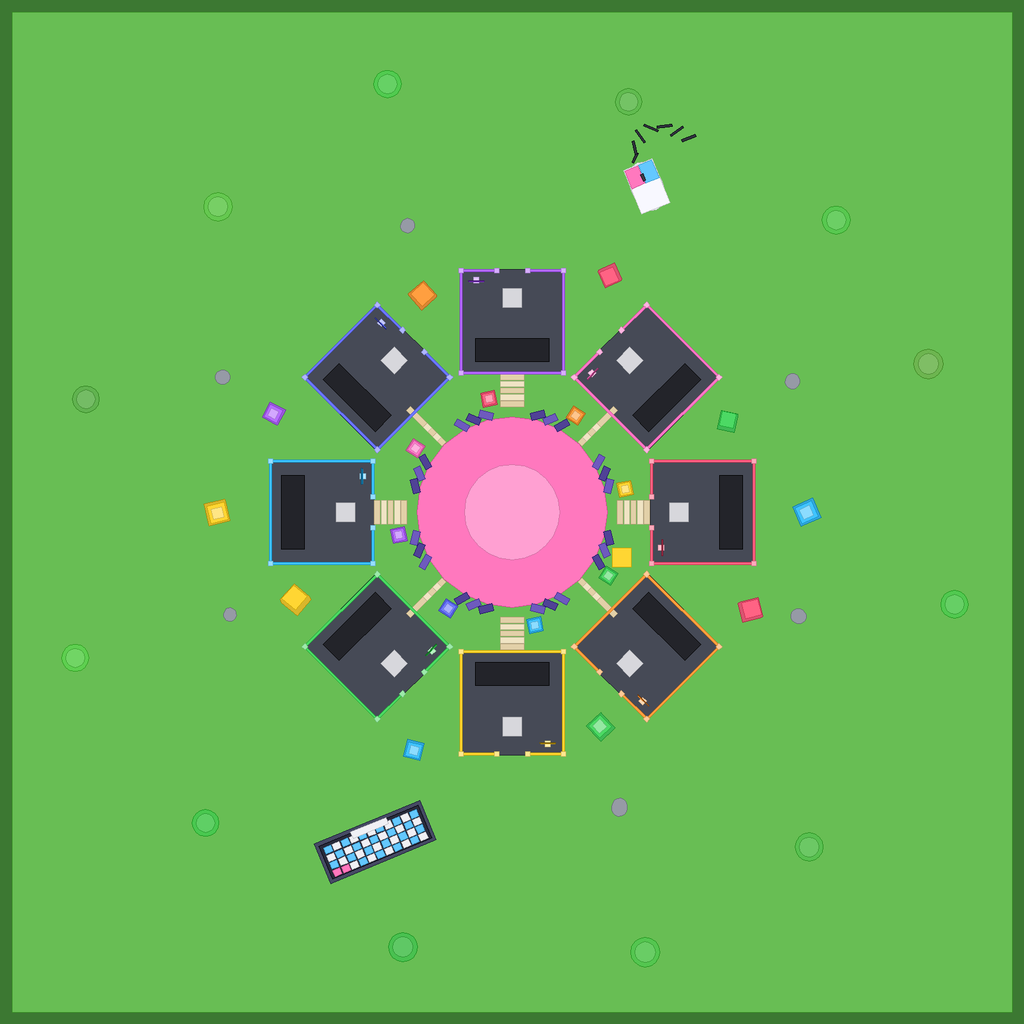
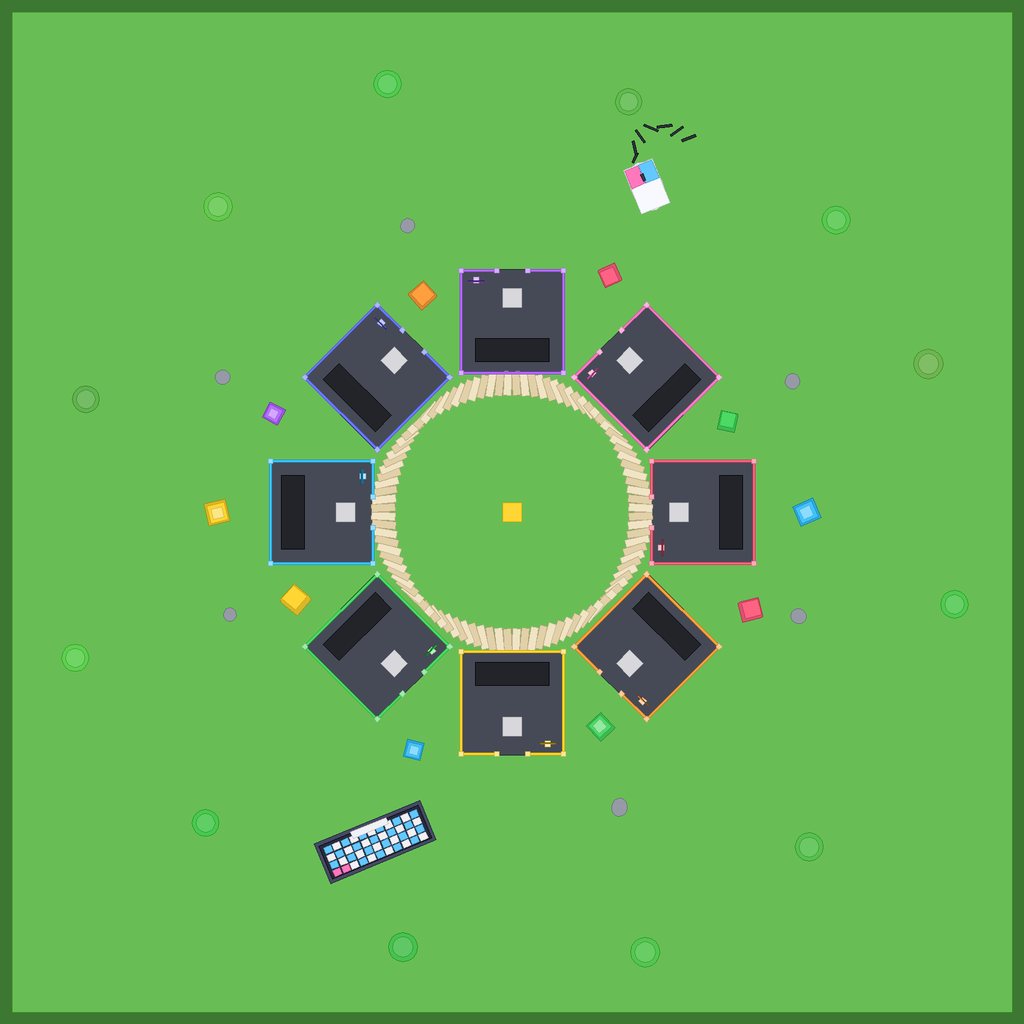
Remove arena from starter map, add ring path between bases, center spawn
Claude-Session: https://claude.ai/code/session_012yg9Kt5wrtAVTPP3PQ736Y

Changed region(s): [[0.3438, 0.3438, 0.6562, 0.6562]]

diff --git a/assets/map/README.md b/assets/map/README.md
@@ -1,18 +1,18 @@
 # THOCK starter map
 
-`ThockMap.rbxm` is a ready-made map: grass `Ground`, 8 `Plots`, the `Arena`, `Paths`, `Decor` and a `SpawnLocation`. The game code builds placeholder plots and arena at runtime only when these are missing.
+`ThockMap.rbxm` is a ready-made map: grass `Ground`, 8 `Plots`, a ring walkway in `Paths`, `Decor` and a centered `SpawnLocation`. There is no arena: the middle of the map is empty grass and players only walk base to base to steal. Keyfall Run is off via `GameConfig.Keyfall.Enabled = false`. The game code builds placeholder plots at runtime only when these are missing.
 
 ## Insert it
 
 1. Open the place in Studio.
 2. Right-click `Workspace` > Insert from File... > pick `assets/map/ThockMap.rbxm` (or drag the file into the viewport).
-3. The file has several roots, so `Plots`, `Arena`, `Paths`, `Decor`, `SpawnLocation` and `Ground` land directly in `Workspace`.
+3. The file has several roots, so `Plots`, `Paths`, `Decor`, `SpawnLocation` and `Ground` land directly in `Workspace`.
 4. Delete the old `Baseplate`, then save to Roblox (File > Publish to Roblox).
 
 ## Rules
 
-- Do not rename `Workspace.Plots`, `Workspace.Arena`, `Arena.Floor`, `Plot1`..`Plot8`, or the `Base`, `RollKey` and `Board` parts in each plot. The server finds them by name.
-- Everything else can be moved, recolored or decorated freely. Keep the plot positions and the arena size if you want gameplay distances (delivery radius, arena radius 40) to stay tuned.
+- Do not rename `Workspace.Plots`, `Plot1`..`Plot8`, or the `Base`, `RollKey` and `Board` parts in each plot. The server finds them by name.
+- Everything else can be moved, recolored or decorated freely. Keep the plot positions if you want gameplay distances (delivery radius) to stay tuned, and keep radius 45 around the center free of props.
 - `preview.png` is a top-down footprint render of the layout.
 
 ## Regenerate
